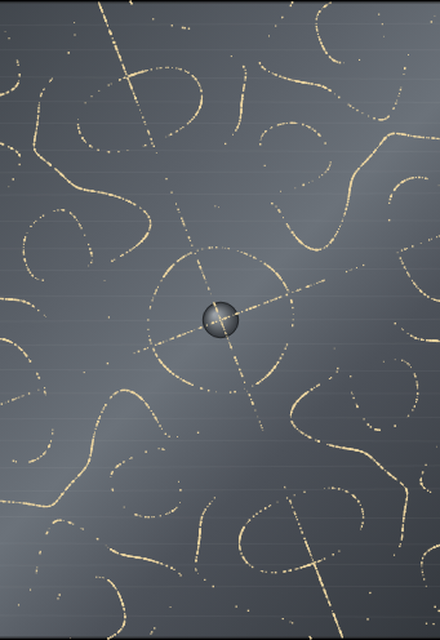
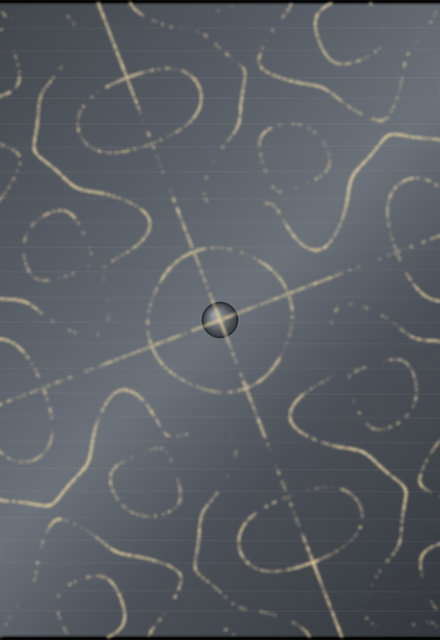
Chladni plate: fix weak convergence at high pitches, denser sand, soft blur; refresh landing card

diff --git a/chladni/index.html b/chladni/index.html
@@ -119,7 +119,7 @@
       <circle cx="15.5" cy="16" r="1.3" fill="currentColor"/>
       <circle cx="6" cy="17" r="0.9" fill="currentColor"/>
     </svg>
-    <input type="range" id="densitySlider" min="0" max="100" value="59" aria-label="sand density">
+    <input type="range" id="densitySlider" min="0" max="100" value="44" aria-label="sand density">
   </div>
   <div id="hueDock">
     <svg class="palette-icon" viewBox="0 0 24 24" width="16" height="16" aria-hidden="true">
@@ -388,7 +388,11 @@
   // a big fixed pool, pre-seeded once — the density slider just decides how
   // many of the pool are simulated/drawn each frame (a plain prefix of the
   // same array), so dragging it never re-scatters or re-allocates anything
-  const NMAX = 9000, N_MIN = 700, N_DEFAULT = 5600;
+  // the old bottom (700) went nearly invisible once a pitch's nodal lines
+  // got long enough to spread it thin — the old middle reads as a light
+  // dusting instead, so that's the new floor; the top is raised well past
+  // the old ceiling for a genuinely thick, heavy-pour extreme
+  const NMAX = 15000, N_MIN = 5000, N_DEFAULT = 9400;
   let activeN = N_DEFAULT;
   const px = new Float32Array(NMAX), py = new Float32Array(NMAX);
   const vx = new Float32Array(NMAX), vy = new Float32Array(NMAX);
@@ -520,16 +524,40 @@
     ctx.strokeStyle='rgba(0,0,0,0.5)'; ctx.lineWidth=1; ctx.stroke();
   }
 
+  // grains are drawn onto their own offscreen layer first, crisp and cheap
+  // (thousands of tiny fillRects), then composited onto the plate with a
+  // single blur pass — real sand isn't a field of hard-edged squares, and
+  // at a heavy pour it should soften and glow together rather than read as
+  // a grid of dots; blurring once per frame as a composite is far cheaper
+  // than filtering every individual grain
+  let grainCanvas=null, grainCtx=null;
+  function ensureGrainCanvas(){
+    if(grainCanvas && grainCanvas.width===W && grainCanvas.height===H) return;
+    grainCanvas=document.createElement('canvas');
+    grainCanvas.width=W; grainCanvas.height=H;
+    grainCtx=grainCanvas.getContext('2d');
+  }
+
   function draw(){
     drawPlate();
+    ensureGrainCanvas();
+    grainCtx.clearRect(0,0,W,H);
     // same soft, pale character at every hue — only the hue itself moves,
     // so it always still reads as fine sand, never a saturated paint colour
-    ctx.fillStyle=`hsla(${hue}, 68%, 78%, 0.95)`;
+    grainCtx.fillStyle=`hsla(${hue}, 68%, 78%, 0.95)`;
     for(let i=0;i<activeN;i++){
       const [x,y]=toPx(px[i],py[i]);
       const s=gsize[i]*DPR*1.1;
-      ctx.fillRect(x-s/2,y-s/2,s,s);
+      grainCtx.fillRect(x-s/2,y-s/2,s,s);
     }
+    // more blur as density rises — a light dusting stays crisp, individual
+    // grains; a heavy pour softens into a real, fuzzy-edged glow
+    const densityT=Math.max(0,Math.min(1,(activeN-N_MIN)/(NMAX-N_MIN)));
+    const blur=(0.25+densityT*1.5)*DPR;
+    ctx.save();
+    ctx.filter=`blur(${blur.toFixed(2)}px)`;
+    ctx.drawImage(grainCanvas,0,0);
+    ctx.restore();
   }
 
   requestAnimationFrame(step);
